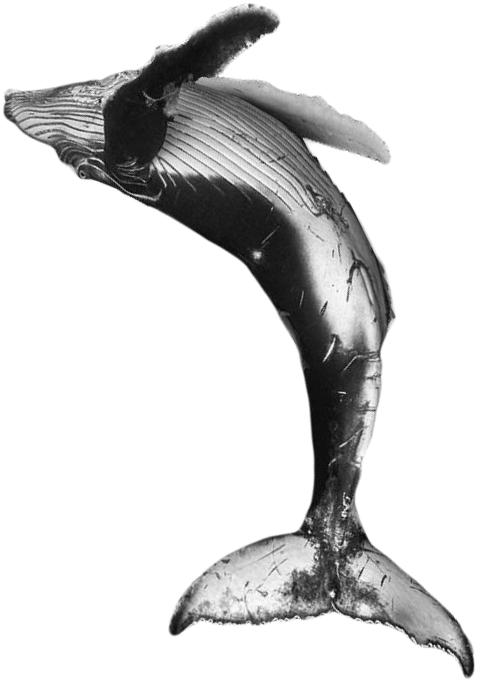
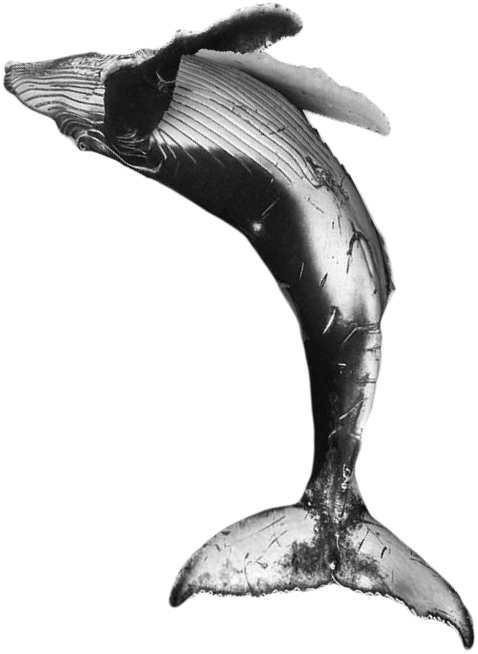
The whale: the raised flipper bent lower over the back, a dense dot outline where the skin is dark, and a full-strength light blur just under the surface so the belly sinks without a step.
(cherry picked from commit e776e45a29098339e8825fd78ad564a2e583852d)

Changed region(s): [[0.0, 0.0, 0.9958, 0.9786]]

diff --git a/apps/web/src/components/copy/DotWhale.tsx b/apps/web/src/components/copy/DotWhale.tsx
@@ -5,7 +5,7 @@
  *
  * The photo (owner, 2026-10-26: a full-body humpback cut out on white) is cut
  * out, its outline smoothed (points and knobs rounded off), its raised flipper
- * bent 40 degrees toward the body at a joint where it leaves it, mirrored so it heads
+ * bent 50 degrees toward the body at a joint where it leaves it, so it lies low, mirrored so it heads
  * left and tilted 26 degrees into a breach (owner, 2026-10-26), and kept as a tone map
  * (whale-tone.png: grey = the photo's light, alpha = the whale), equalised over
  * the whale so its dark skin spreads over the whole range. The map is inlined in
@@ -15,9 +15,9 @@
  * it - the head, both flippers, the front of the body (rows above WATERLINE) - the
  * whale is sharp and fills the hero's box; below it the rest of the body and the
  * flukes run on behind the toolbar and the cards, blurred and dimmer as if under
- * water. The sharp body stays whole down to the surface and gives way to the
- * blurred one over a band below it, so the whale sinks into the water rather than
- * being cut, or thinned above it.
+ * water. The sharp body stays whole down to the surface, gives way over a band
+ * below it to a lightly blurred one at full strength, and that to the blurred,
+ * dimmer one - so the whale sinks into the water with no step in its brightness.
  *
  * Little moves: a slow small dip, the dots giving where the pointer passes, the
  * stars twinkling. Still under reduced motion.
@@ -27,8 +27,8 @@ import toneUrl from './whale-tone.png?inline';
 
 /** The tone map's size, and its row on the surface; the box adds a little room either side. */
 const TW = 478;
-const TH = 682;
-const WATERLINE = 300;
+const TH = 654;
+const WATERLINE = 288;
 const PAD = 18;
 const W = TW + PAD * 2;
 /** The band below the surface over which sharp turns to under water (CSS px). */
@@ -93,7 +93,8 @@ function samp(f: Float32Array, x: number, y: number): number {
 /**
  * The stipple: dots dropped where the whale is, kept more often where it is light -
  * the dark skin (the raised flipper) still dotted, so it reads as skin, not a hole -
- * and thinning out over the soft edge.
+ * and dense along the outline whatever the skin there, so the silhouette reads as a
+ * smooth line even where the whale is dark.
  */
 function stipple(t: Tone, count: number): Dot[] {
   const dots: Dot[] = [];
@@ -104,8 +105,9 @@ function stipple(t: Tone, count: number): Dot[] {
     const y = Math.random() * TH;
     const edge = samp(t.a, x, y);
     if (edge < 0.04) continue;
-    const v = 0.16 + 0.84 * Math.pow(samp(t.l, x, y), 1.5);
-    if (Math.random() > v * sm(0.15, 0.7, edge)) continue;
+    let v = 0.16 + 0.84 * Math.pow(samp(t.l, x, y), 1.5);
+    if (edge < 0.92) v = Math.max(v, 0.62);
+    if (Math.random() > v * sm(0.1, 0.5, edge)) continue;
     dots.push({ x, y, r: 0.4 + Math.random() * 0.45 * (0.5 + v), a: 0.3 + 0.7 * v, ph: Math.random() * Math.PI * 2, sp: 0.6 + Math.random() * 1.4, dx: 0, dy: 0 });
   }
   return dots;
@@ -125,7 +127,9 @@ export function DotWhale() {
     const octx = off.getContext('2d');
     const low = document.createElement('canvas');
     const lctx = low.getContext('2d');
-    if (!ctx || !octx || !lctx) return;
+    const mid = document.createElement('canvas');
+    const mctx = mid.getContext('2d');
+    if (!ctx || !octx || !lctx || !mctx) return;
     const still = window.matchMedia('(prefers-reduced-motion: reduce)').matches;
     let tone: Tone | null = null;
     let dots: Dot[] = [];
@@ -149,8 +153,8 @@ export function DotWhale() {
       canvas.height = Math.max(1, Math.round((r.height + below) * dpr));
       canvas.style.width = `${r.width}px`;
       canvas.style.height = `${r.height + below}px`;
-      off.width = low.width = canvas.width;
-      off.height = low.height = canvas.height;
+      off.width = low.width = mid.width = canvas.width;
+      off.height = low.height = mid.height = canvas.height;
       scale = cssScale * dpr;
       surface = Math.round(r.height * dpr);
       ox = Math.round((canvas.width - W * scale) / 2 + PAD * scale);
@@ -202,13 +206,27 @@ export function DotWhale() {
       lctx.drawImage(off, 0, 0);
       lctx.filter = 'none';
       lctx.globalCompositeOperation = 'destination-in';
+      const at = (y: number) => Math.min(1, Math.max(0, y / low.height));
       const under = lctx.createLinearGradient(0, 0, 0, low.height);
-      under.addColorStop(top / low.height, 'rgba(0,0,0,0)');
-      under.addColorStop(Math.min(1, (surface + band) / low.height), 'rgba(0,0,0,0.85)');
-      under.addColorStop(Math.min(1, (surface + band * 4) / low.height), 'rgba(0,0,0,0.62)');
+      under.addColorStop(at(surface + band), 'rgba(0,0,0,0)');
+      under.addColorStop(at(surface + band * 3), 'rgba(0,0,0,0.85)');
+      under.addColorStop(at(surface + band * 6), 'rgba(0,0,0,0.62)');
       under.addColorStop(1, 'rgba(0,0,0,0.34)');
       lctx.fillStyle = under;
       lctx.fillRect(0, 0, low.width, low.height);
+      // Just under the surface: lightly blurred at full strength, between the sharp body and the blurred one.
+      mctx.globalCompositeOperation = 'source-over';
+      mctx.clearRect(0, 0, mid.width, mid.height);
+      mctx.filter = `blur(${(0.7 * dpr).toFixed(1)}px)`;
+      mctx.drawImage(off, 0, 0);
+      mctx.filter = 'none';
+      mctx.globalCompositeOperation = 'destination-in';
+      const near = mctx.createLinearGradient(0, 0, 0, mid.height);
+      near.addColorStop(at(surface), 'rgba(0,0,0,0)');
+      near.addColorStop(at(surface + band), 'rgba(0,0,0,1)');
+      near.addColorStop(at(surface + band * 3), 'rgba(0,0,0,0)');
+      mctx.fillStyle = near;
+      mctx.fillRect(0, 0, mid.width, mid.height);
       // Above it: sharp, giving way over the same band. (destination-in clears whatever it
       // does not cover: the whole canvas is filled, opaque above the band.)
       octx.globalAlpha = 1;
@@ -221,6 +239,7 @@ export function DotWhale() {
       octx.globalCompositeOperation = 'source-over';
       ctx.globalAlpha = 1;
       ctx.drawImage(off, 0, 0);
+      ctx.drawImage(mid, 0, 0);
       ctx.drawImage(low, 0, 0);
     };
     const loop = (t: number) => {
